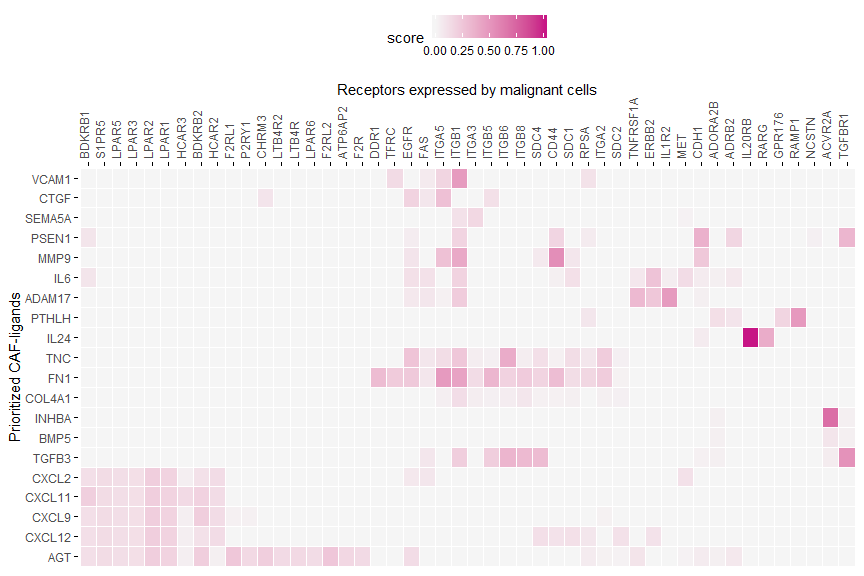
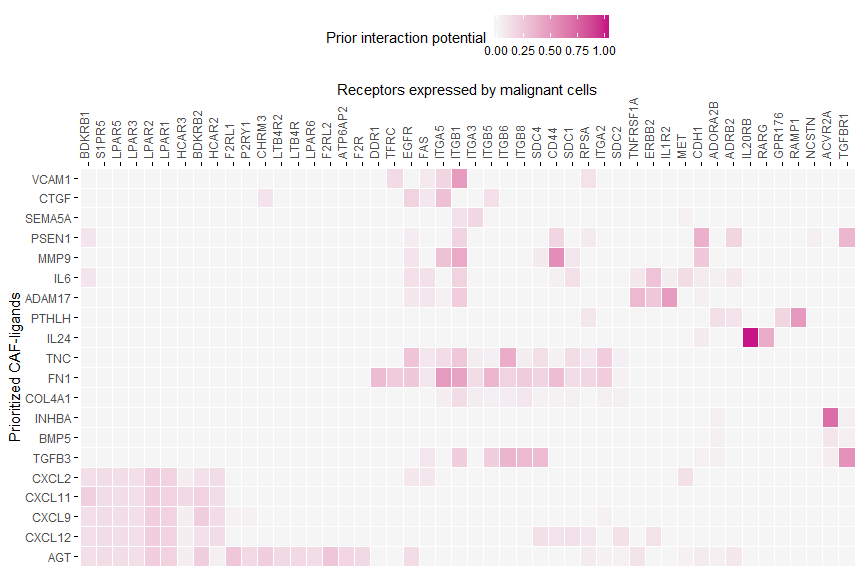
Extend basic vignette with additional analysis on making a combined heatmap as shown in the KC niche paper and the NicheNet paper

Changed region(s): [[0.375, 0.0, 0.7188, 0.0938]]

diff --git a/vignettes/ligand_activity_geneset.md b/vignettes/ligand_activity_geneset.md
@@ -15,8 +15,16 @@ bulk or single-cell gene expression data. Specifically, NicheNet can
 predict 1) which ligands from one cell population (“sender/niche”) are
 most likely to affect target gene expression in an interacting cell
 population (“receiver/target”) and 2) which specific target genes are
-affected by which of these predicted ligands. The pipeline of a basic
-NicheNet analysis consist mainly of the following steps:
+affected by which of these predicted ligands.
+
+Because NicheNet studies how ligands affect gene expression in
+neighboring cells, you need to have data about this effect in gene
+expression you want to study. So, you need to have a clear set of genes
+that are putatively affected by ligands from one of more interacting
+cells.
+
+The pipeline of a basic NicheNet analysis consist mainly of the
+following steps:
 
   - 1.  Define a “sender/niche” cell population and a “receiver/target”
         cell population present in your expression data and determine
@@ -48,12 +56,6 @@ expressed by cancer-associated fibroblasts (CAFs) can induce a specific
 gene program in neighboring malignant cells. This program, a partial
 epithelial-mesenschymal transition (p-EMT) program, could be linked to
 metastasis by Puram et al. 
-
-For this analysis, we will assess the ligand activity of each ligand, or
-in other words, we will assess how well each CAF-ligand can predict the
-p-EMT gene set compared to the background of expressed genes. This
-allows us to prioritize p-EMT-regulating ligands. In a final step, we
-will then infer target genes of these top ligands.
 
 The used ligand-target matrix and example expression data of interacting
 cells can be downloaded from Zenodo.
@@ -171,10 +173,12 @@ head(potential_ligands)
 
 ## Step 4: Perform NicheNet’s ligand activity analysis on the gene set of interest
 
-Now perform the ligand activity analysis: infer how well NicheNet’s
-ligand-target potential scores can predict whether a gene belongs to the
-p-EMT program or
-not.
+Now perform the ligand activity analysis: in this analysis, we will
+calculate the ligand activity of each ligand, or in other words, we will
+assess how well each CAF-ligand can predict the p-EMT gene set compared
+to the background of expressed genes (predict whether a gene belongs to
+the p-EMT program or
+not).
 
 ``` r
 ligand_activities = predict_ligand_activities(geneset = geneset_oi, background_expressed_genes = background_expressed_genes, ligand_target_matrix = ligand_target_matrix, potential_ligands = potential_ligands)
@@ -185,7 +189,8 @@ validation study, we showed that the pearson correlation coefficient
 (PCC) between a ligand’s target predictions and the observed
 transcriptional response was the most informative measure to define
 ligand activity. Therefore, we will rank the ligands based on their
-pearson correlation coefficient.
+pearson correlation coefficient. This allows us to prioritize
+p-EMT-regulating ligands.
 
 ``` r
 ligand_activities %>% arrange(-pearson) 
@@ -295,10 +300,16 @@ head(active_ligand_target_links_df)
 ```
 
 The putatively active ligand-target links will now be visualized in a
-heatmap.
+heatmap. The order of the ligands accord to the ranking according to the
+ligand activity
+prediction.
 
 ``` r
-p_ligand_target_network = active_ligand_target_links %>% t() %>% make_heatmap_ggplot("Prioritized CAF-ligands","p-EMT genes in malignant cells", color = "purple",legend_position = "top", x_axis_position = "top") + scale_fill_gradient2(low = "whitesmoke",  high = "purple", breaks = c(0,0.005,0.01))
+order_ligands = intersect(best_upstream_ligands, colnames(active_ligand_target_links)) %>% rev()
+order_targets = active_ligand_target_links_df$target %>% unique()
+vis_ligand_target = active_ligand_target_links[order_targets,order_ligands] %>% t()
+
+p_ligand_target_network = vis_ligand_target %>% make_heatmap_ggplot("Prioritized CAF-ligands","p-EMT genes in malignant cells", color = "purple",legend_position = "top", x_axis_position = "top",legend_title = "Regulatory potential") + scale_fill_gradient2(low = "whitesmoke",  high = "purple", breaks = c(0,0.005,0.01)) + theme(axis.text.x = element_text(face = "italic"))
 
 p_ligand_target_network
 ```
@@ -355,11 +366,124 @@ interactions
 
 ``` r
 vis_ligand_receptor_network = lr_network_top_matrix[order_receptors, order_ligands_receptor]
-p_ligand_receptor_network = vis_ligand_receptor_network %>% t() %>% make_heatmap_ggplot("Prioritized CAF-ligands","Receptors expressed by malignant cells", color = "mediumvioletred", x_axis_position = "top")
+p_ligand_receptor_network = vis_ligand_receptor_network %>% t() %>% make_heatmap_ggplot("Prioritized CAF-ligands","Receptors expressed by malignant cells", color = "mediumvioletred", x_axis_position = "top",legend_title = "Prior interaction potential")
 p_ligand_receptor_network
 ```
 
 ![](ligand_activity_geneset_files/figure-gfm/unnamed-chunk-14-1.png)<!-- -->
+
+## Follow-up analysis 2: Visualize expression of top-predicted ligands and their target genes in a combined heatmap
+
+NicheNet only considers expressed ligands of sender cells, but does not
+take into account their expression for ranking the ligands. The ranking
+is purely based on the potential that a ligand might regulate the gene
+set of interest, given prior knowledge. Because it is also useful to
+further look into expression of ligands and their target genes, we
+demonstrate here how you could make a combined figure showing ligand
+activity, ligand expression, target gene expression and ligand-target
+regulatory potential.
+
+#### Load additional packages required for the visualization:
+
+``` r
+library(RColorBrewer)
+library(cowplot)
+library(ggpubr)
+```
+
+#### Prepare the ligand activity matrix
+
+``` r
+ligand_pearson_matrix = ligand_activities %>% select(pearson) %>% as.matrix() %>% magrittr::set_rownames(ligand_activities$test_ligand)
+
+vis_ligand_pearson = ligand_pearson_matrix[order_ligands, ] %>% as.matrix(ncol = 1) %>% magrittr::set_colnames("Pearson")
+```
+
+``` r
+p_ligand_pearson = vis_ligand_pearson %>% make_heatmap_ggplot("Prioritized CAF-ligands","Ligand activity", color = "darkorange",legend_position = "top", x_axis_position = "top", legend_title = "Pearson correlation coefficient\ntarget gene prediction ability)")
+p_ligand_pearson
+```
+
+![](ligand_activity_geneset_files/figure-gfm/unnamed-chunk-17-1.png)<!-- -->
+
+#### Prepare expression of ligands in fibroblast per tumor
+
+Because the single-cell data was collected from multiple tumors, we will
+show here the average expression of the ligands per
+tumor.
+
+``` r
+expression_df_CAF = expression[CAF_ids,order_ligands] %>% data.frame() %>% rownames_to_column("cell") %>% tbl_df() %>% inner_join(sample_info %>% select(cell,tumor), by =  "cell")
+
+aggregated_expression_CAF = expression_df_CAF %>% group_by(tumor) %>% select(-cell) %>% summarise_all(mean)
+
+aggregated_expression_df_CAF = aggregated_expression_CAF %>% select(-tumor) %>% t() %>% magrittr::set_colnames(aggregated_expression_CAF$tumor) %>% data.frame() %>% rownames_to_column("ligand") %>% tbl_df() 
+
+aggregated_expression_matrix_CAF = aggregated_expression_df_CAF %>% select(-ligand) %>% as.matrix() %>% magrittr::set_rownames(aggregated_expression_df_CAF$ligand)
+
+order_tumors = c("HN6","HN20","HN26","HN28","HN22","HN25","HN5","HN18","HN17","HN16") # this order was determined based on the paper from Puram et al. Tumors are ordered according to p-EMT score.
+vis_ligand_tumor_expression = aggregated_expression_matrix_CAF[order_ligands,order_tumors]
+```
+
+``` r
+library(RColorBrewer)
+color = colorRampPalette(rev(brewer.pal(n = 7, name ="RdYlBu")))(100)
+p_ligand_tumor_expression = vis_ligand_tumor_expression %>% make_heatmap_ggplot("Prioritized CAF-ligands","Tumor", color = color[100],legend_position = "top", x_axis_position = "top", legend_title = "Expression\n(averaged over\nsingle cells)") + theme(axis.text.y = element_text(face = "italic"))
+p_ligand_tumor_expression
+```
+
+![](ligand_activity_geneset_files/figure-gfm/unnamed-chunk-19-1.png)<!-- -->
+
+#### Prepare expression of target genes in malignant cells per tumor
+
+``` r
+expression_df_target = expression[malignant_ids,geneset_oi] %>% data.frame() %>% rownames_to_column("cell") %>% tbl_df() %>% inner_join(sample_info %>% select(cell,tumor), by =  "cell") 
+
+aggregated_expression_target = expression_df_target %>% group_by(tumor) %>% select(-cell) %>% summarise_all(mean)
+
+aggregated_expression_df_target = aggregated_expression_target %>% select(-tumor) %>% t() %>% magrittr::set_colnames(aggregated_expression_target$tumor) %>% data.frame() %>% rownames_to_column("target") %>% tbl_df() 
+
+aggregated_expression_matrix_target = aggregated_expression_df_target %>% select(-target) %>% as.matrix() %>% magrittr::set_rownames(aggregated_expression_df_target$target)
+
+vis_target_tumor_expression_scaled = aggregated_expression_matrix_target %>% t() %>% scale_quantile() %>% .[order_tumors,order_targets]
+```
+
+``` r
+p_target_tumor_scaled_expression = vis_target_tumor_expression_scaled  %>% make_threecolor_heatmap_ggplot("Tumor","Target", low_color = color[1],mid_color = color[50], mid = 0.5, high_color = color[100], legend_position = "top", x_axis_position = "top" , legend_title = "Scaled expression\n(averaged over\nsingle cells)") + theme(axis.text.x = element_text(face = "italic"))
+p_target_tumor_scaled_expression
+```
+
+![](ligand_activity_geneset_files/figure-gfm/unnamed-chunk-21-1.png)<!-- -->
+
+#### Combine the different heatmaps in one overview figure
+
+``` r
+figures_without_legend = plot_grid(
+  p_ligand_pearson + theme(legend.position = "none", axis.ticks = element_blank()) + theme(axis.title.x = element_text()),
+  p_ligand_tumor_expression + theme(legend.position = "none", axis.ticks = element_blank()) + theme(axis.title.x = element_text()) + ylab(""),
+  p_ligand_target_network + theme(legend.position = "none", axis.ticks = element_blank()) + ylab(""), 
+  NULL,
+  NULL,
+  p_target_tumor_scaled_expression + theme(legend.position = "none", axis.ticks = element_blank()) + xlab(""), 
+  align = "hv",
+  nrow = 2,
+  rel_widths = c(ncol(vis_ligand_pearson)+ 4.5, ncol(vis_ligand_tumor_expression), ncol(vis_ligand_target)) -2,
+  rel_heights = c(nrow(vis_ligand_pearson), nrow(vis_target_tumor_expression_scaled) + 3)) 
+
+legends = plot_grid(
+  as_ggplot(get_legend(p_ligand_pearson)),
+  as_ggplot(get_legend(p_ligand_tumor_expression)),
+  as_ggplot(get_legend(p_ligand_target_network)),
+  as_ggplot(get_legend(p_target_tumor_scaled_expression)),
+  nrow = 2,
+  align = "h")
+
+plot_grid(figures_without_legend, 
+          legends, 
+          rel_heights = c(10,2), nrow = 2, align = "hv")
+```
+
+![](ligand_activity_geneset_files/figure-gfm/unnamed-chunk-22-1.png)<!-- -->
 
 ## Other follow-up analyses:
 
